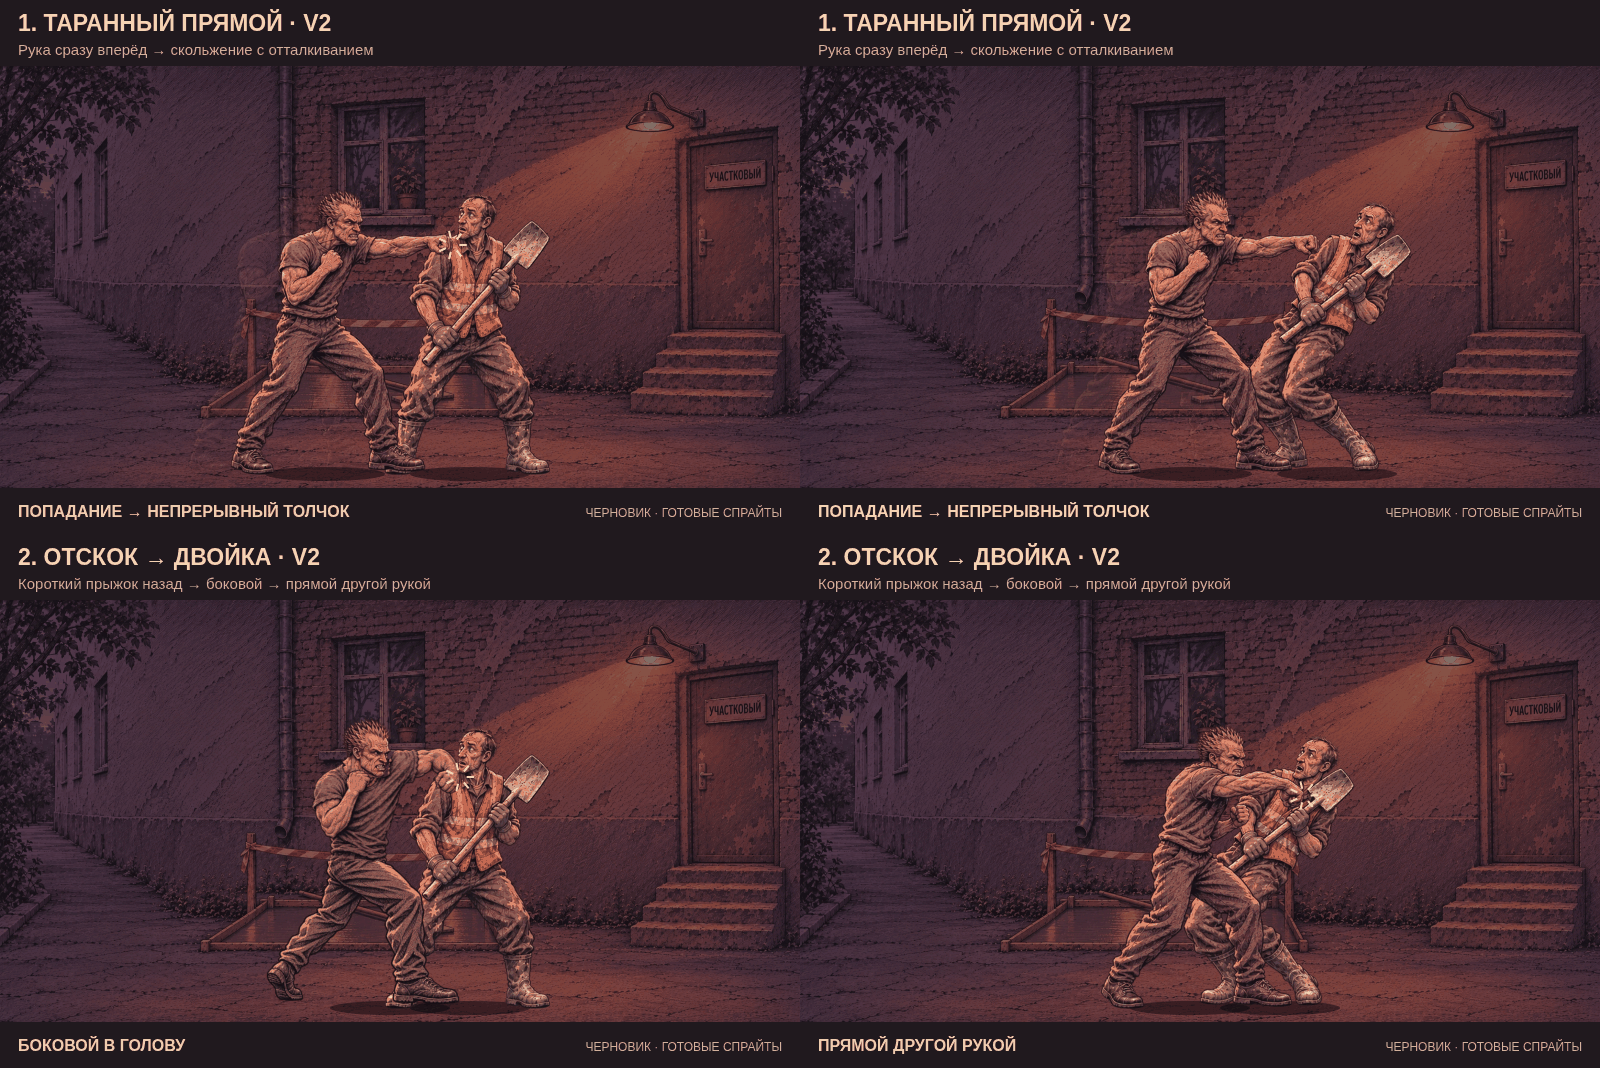
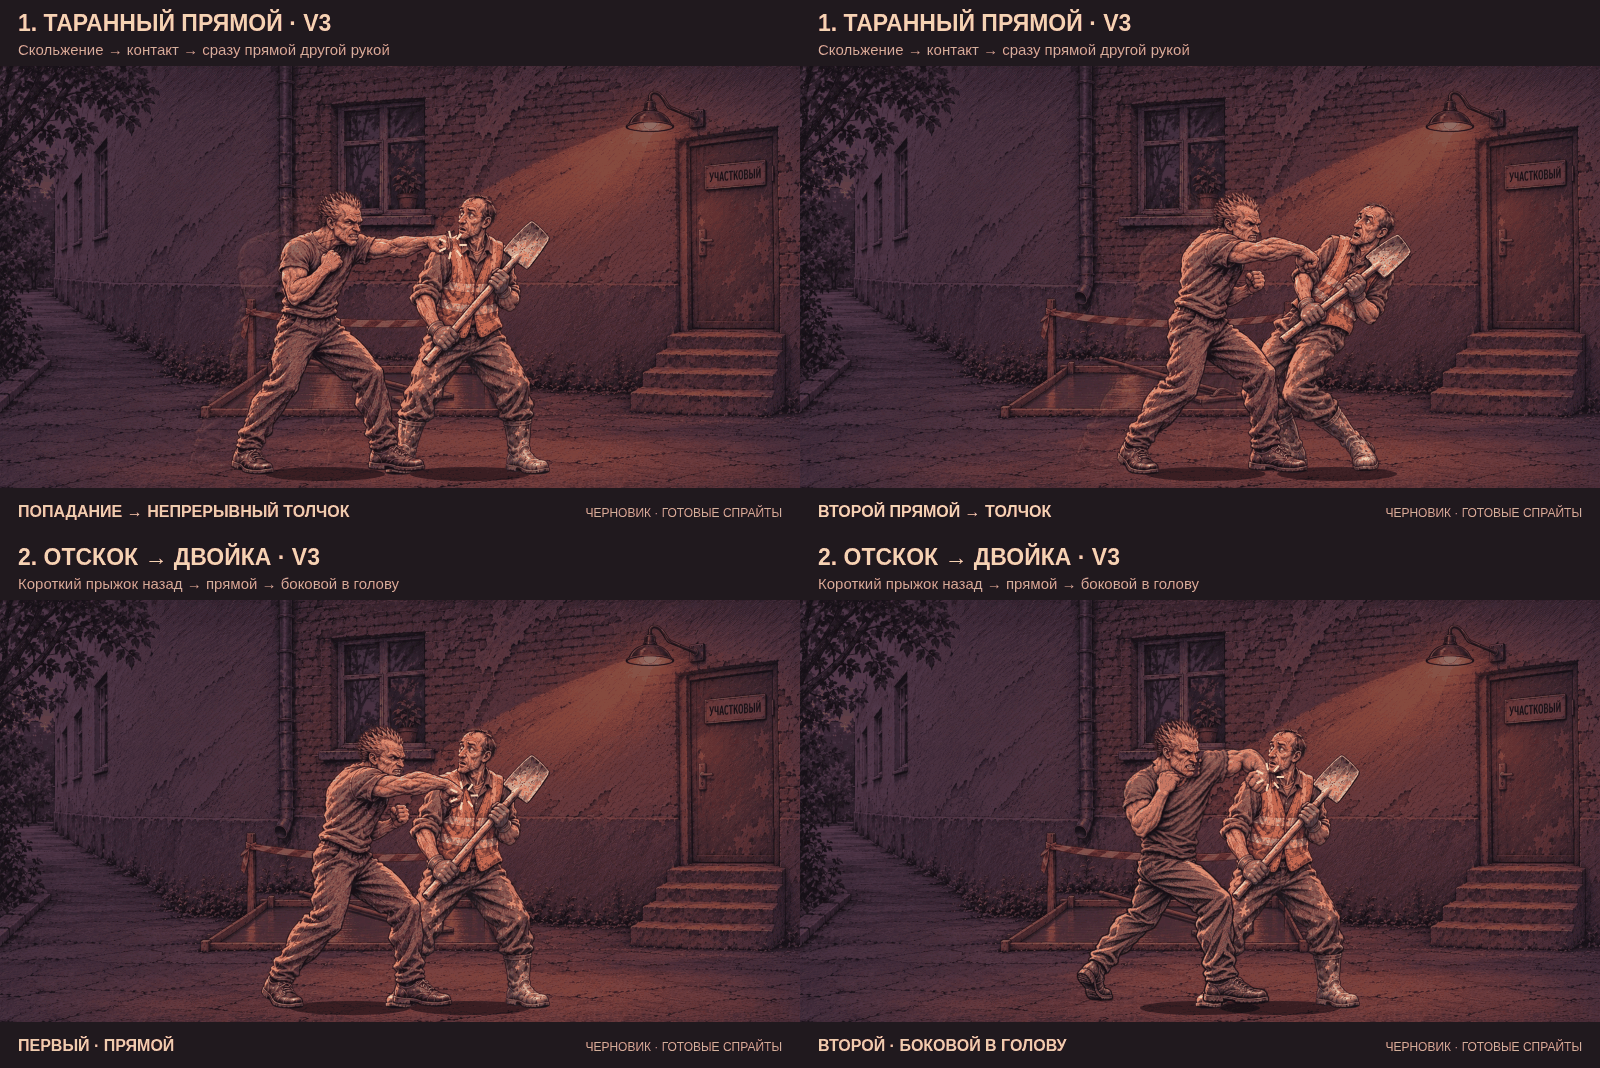
feat(previews): reverse counter hits and add a slide follow-up

diff --git a/assets/prototypes/gameplay/special-move-preview/export.py b/assets/prototypes/gameplay/special-move-preview/export.py
@@ -38,18 +38,28 @@ def main():
         if name == 'dash-straight':
             assert at[600]['key'] == at[620]['key'] == 'jab-hybrid/jab-0.webp'
             assert not at[620]['active'] and at[640]['active']
-            assert all(frame['key'] == 'boxer-2.webp' for frame in timeline if 640 <= frame['t'] < 1300)
+            assert all(frame['key'] == 'boxer-2.webp' and frame['hand'] == 'jab' for frame in timeline if 640 <= frame['t'] < 960)
+            assert at[960]['key'] == at[980]['key'] == 'cross-hybrid/cross-0.webp'
+            assert not at[960]['active'] and not at[980]['active']
+            assert all(frame['key'] == 'boxer-3.webp' and frame['hand'] == 'right-straight' for frame in timeline if 1000 <= frame['t'] < 1300)
             assert at[640]['x'] == 400 and at[900]['x'] == 650
-            assert at[1240]['x'] == 840 and at[1240]['wx'] == 1130
+            assert at[1240]['x'] == 867 and at[1240]['wx'] == 1130
             assert at[1220]['active'] and not at[1240]['active']
-            assert sum(frame['impact'] for frame in timeline) * 20 == 60
-            assert {frame['contact'] for frame in timeline if frame['contact']} == {1}
+            assert at[880]['contact'] == 0 and at[900]['contact'] == 1
+            assert at[940]['contact'] == 1 and at[960]['contact'] == 0
+            assert at[980]['contact'] == 0 and at[1000]['contact'] == 2
+            assert at[1100]['contact'] == 2 and at[1120]['contact'] == 0
+            assert sum(frame['impact'] for frame in timeline) * 20 == 180
+            assert {frame['contact'] for frame in timeline if frame['contact']} == {1, 2}
             push = [frame for frame in timeline if 900 <= frame['t'] <= 1240]
-            assert all(abs(frame['wx'] - frame['x'] - 290) < 1e-6 for frame in push)
+            for frame in push:
+                follow = 27 * max(0, min(1, (frame['t'] - 960) / 40))
+                assert abs(frame['wx'] - frame['x'] - (290 - follow)) < 1e-6
             assert all(b['x'] > a['x'] and b['wx'] > a['wx'] for a, b in zip(push, push[1:]))
         if name == 'pullback-hook':
             assert at[800]['x'] < at[0]['x'] < at[960]['x']
-            assert at[800]['x'] == 430 and at[960]['x'] == 780
+            assert at[800]['x'] == 430 and at[960]['x'] == 700 and at[1120]['x'] == 800
+            assert at[1040]['x'] == 700 < at[1080]['x'] < at[1120]['x']
             assert at[760]['worker'] == 'worker-2.webp' and at[820]['worker'] == 'worker-1.webp'
             assert at[720]['lift'] == 55 and at[800]['lift'] == 0
             assert all(frame['key'] == 'boxer-7.webp' for frame in timeline if 640 <= frame['t'] < 800)
@@ -59,8 +69,8 @@ def main():
             assert at[1020]['contact'] == 1 and at[1040]['contact'] == 0
             assert at[1100]['contact'] == 0 and at[1120]['contact'] == 2
             assert at[1220]['contact'] == 2 and at[1240]['contact'] == 0
-            assert at[960]['key'] == 'boxer-12.webp' and at[960]['hand'] == 'left-hook'
-            assert at[1120]['key'] == 'boxer-3.webp' and at[1120]['hand'] == 'right-straight'
+            assert at[960]['key'] == 'boxer-3.webp' and at[960]['hand'] == 'right-straight'
+            assert at[1120]['key'] == 'boxer-12.webp' and at[1120]['hand'] == 'left-hook'
             assert at[1060]['key'] == 'cross-hybrid/cross-0.webp'
             assert sum(frame['impact'] for frame in timeline) * 20 == 200
         originals[name] = frames
@@ -112,7 +122,7 @@ def main():
     (ROOT / 'verification.json').write_text(json.dumps(report, indent=2) + '\n')
     assert set(timelines) == set(IDS)
     assert not list(PUBLIC.glob('duck-body*.gif'))
-    print('Verified four decoded GIFs: early active slide + push, back hop + two hands, contact boundaries, idle return and identical slow frames')
+    print('Verified four decoded GIFs: slide into opposite-hand second hit, straight-then-hook counter, contact boundaries, idle return and identical slow frames')
 
 
 if __name__ == '__main__':

diff --git a/assets/prototypes/gameplay/special-move-preview/README.md b/assets/prototypes/gameplay/special-move-preview/README.md
@@ -1,18 +1,18 @@
-# Два спецприёма: предпросмотр V2 без новых рисунков
+# Два спецприёма: предпросмотр V3 без новых рисунков
 
 Черновая постановка для оценки автором. Игровая модель, управление, баланс и runtime-ассеты не изменены. Рабочий следует заданной последовательности; попадания, урон, толчок и уклонение в игре пока не реализованы для этих спецприёмов.
 
-Авторские правки после V1:
+Последние авторские правки:
 
-- Таранный прямой почти сразу вытягивает руку, скользит с активным ударом и отталкивает противника.
-- Вместо оттяжки с одним боковым: короткий прыжок назад и сразу двойка — боковой в голову, затем быстрый прямой другой рукой.
+- После первого контакта таранного прямого сразу следует второй удар другой рукой; ранний выход руки и скольжение сохранены.
+- В двойке после отскока удары поменяны местами: сначала прямой, затем боковой в голову другой рукой.
 - Третий вариант, нырок в корпус, отвергнут. Удалён из текущей сборки и публичных GIF; предыдущая версия остаётся в истории Git.
 
 ## Постановка
 
-**Таранный прямой.** На 600 мс начинается выход руки через готовый промежуточный рисунок. Через 40 мс уже показан исходный контакт `boxer-2`; он сохраняется на всём скольжении. До цели герой проходит 250 игровых пикселей за 260 мс. С 900 до 1240 мс оба персонажа синхронно продвигаются ещё на 190 px: дистанция между их origin остаётся 290 px. Активная фаза 640–1240 мс, один контакт/снятие здоровья на противника, непрерывный толчок после попадания; многократный урон по одной цели не подразумевается. Визуальная отметка контакта длится 60 мс. Рука возвращается в стойку на 1300 мс.
+**Таранный прямой.** На 600 мс начинается выход руки через готовый промежуточный рисунок. Через 40 мс уже показан исходный контакт `boxer-2`; до цели герой скользит с вытянутой рукой на 250 игровых пикселей за 260 мс. Первый контакт 900–960 мс. Сразу после него 40 мс смены руки через `cross-hybrid/cross-0`, второй прямой `boxer-3` с контактом 1000–1120 мс. Между началами попаданий 100 мс. Во время смены руки нет активной зоны. Толчок противника на 190 px продолжается с 900 до 1240 мс; герой добавляет 27 px входа при смене руки, чтобы более короткий рисунок второго прямого сохранил контакт. Активность второго удара заканчивается на 1240 мс, стойка показана с 1300 мс. Два отдельных попадания, без повторного урона на каждом кадре скольжения.
 
-**Отскок → двойка.** Прыжок назад на 190 px длится 160 мс, root движется по дуге высотой 55 px. После приземления без паузы начинается ответный шаг на 350 px за 160 мс. Боковой — утверждённый левый `boxer-12`, контакт 960–1040 мс. Затем 40 мс смены руки через готовый `cross-hybrid/cross-0`, прямой другой рукой — исходная поза второго лёгкого `boxer-3`, контакт 1120–1240 мс. Между началами попаданий 160 мс. Первый удар отталкивает на 20 px, второй — ещё на 80 px. После прыжка ГГ атакует с земли.
+**Отскок → двойка.** Прыжок назад на 190 px длится 160 мс, root движется по дуге высотой 55 px. После приземления без паузы начинается ответный шаг на 270 px за 160 мс. Первым идёт прямой другой рукой `boxer-3`, контакт 960–1040 мс. Затем 40 мс возврата этой руки через готовый `cross-hybrid/cross-0`, вторым — утверждённый левый боковой `boxer-12`, контакт 1120–1240 мс. Между началами попаданий 160 мс. Герой добавляет 100 px входа для более короткого бокового: origin первого контакта700, второго800. Первый удар отталкивает на 20 px, второй — ещё на 80 px. В начале второго контакта показана исходная поза Рабочего, затем реакция; так боковой не проходит перед уже отклонённой головой. После прыжка ГГ атакует с земли.
 
 Цикл 2600 мс; `-slow.gif` содержит те же кадры в 4 раза медленнее. Затемнение в конце сбрасывает демонстрацию. Все целые рисунки взяты из `scene-lab/public/art/fight/`, anchors и scale — из manifest. Руки не растягивались, части тела не переставлялись. Шлейф и отметка контакта процедурные. Палитра общая для обоих вариантов.
 
@@ -29,6 +29,6 @@ python3 assets/prototypes/gameplay/special-move-preview/export.py
 
 Экспорт проверяет исходники, размеры, замкнутый цикл, исходную регистрацию, выход руки за 40 мс, активную позу на всём скольжении, синхронный толчок, полёт/приземление, разные руки и два разделённых окна попадания, отсутствие контактов на возврате. Декодированные обычные и замедленные GIF обязаны совпадать покадрово и иметь правильную длительность.
 
-Самопроверка V2: просмотрена хронологическая последовательность декодированных кадров обоих GIF. У прямого рука вытягивается до начала скольжения и сохраняет позу при толчке. Во втором варианте виден отрыв ног от земли, промах лопаты, приземление, затем две разные контактные позы. После первого отсмотра увеличен отход и скорректирован момент тычка, чтобы лопата не пересекала голову на прыжке. Компактная существующая поза прыжка и длинный ответный шаг остаются ограничениями черновика. Экспортные проверки, синтаксис сборщиков, typecheck и lint прошли; полный набор тестов боя не запускался, runtime не изменён.
+В V3 перемещение подогнано под разную дальность исходных рисунков прямого и бокового, руки не удлинялись. Просмотрена хронологическая последовательность декодированных GIF: ранний выход руки, первый контакт, смена руки, второй контакт и возврат. Проверки порядка рук, обоих окон контакта, дополнительного входа, границ активности, нормальных/замедленных GIF и замкнутого цикла прошли. Синтаксис сборщиков, typecheck и lint также прошли. Полный набор тестов боя не запускался: игровой runtime не изменён. Новую последовательность нужно оценить автору.
 
 Старые V1 не считались утверждёнными. Новая постановка также требует авторской оценки; GIF не доказывает работоспособность будущих хитбоксов или баланса.
